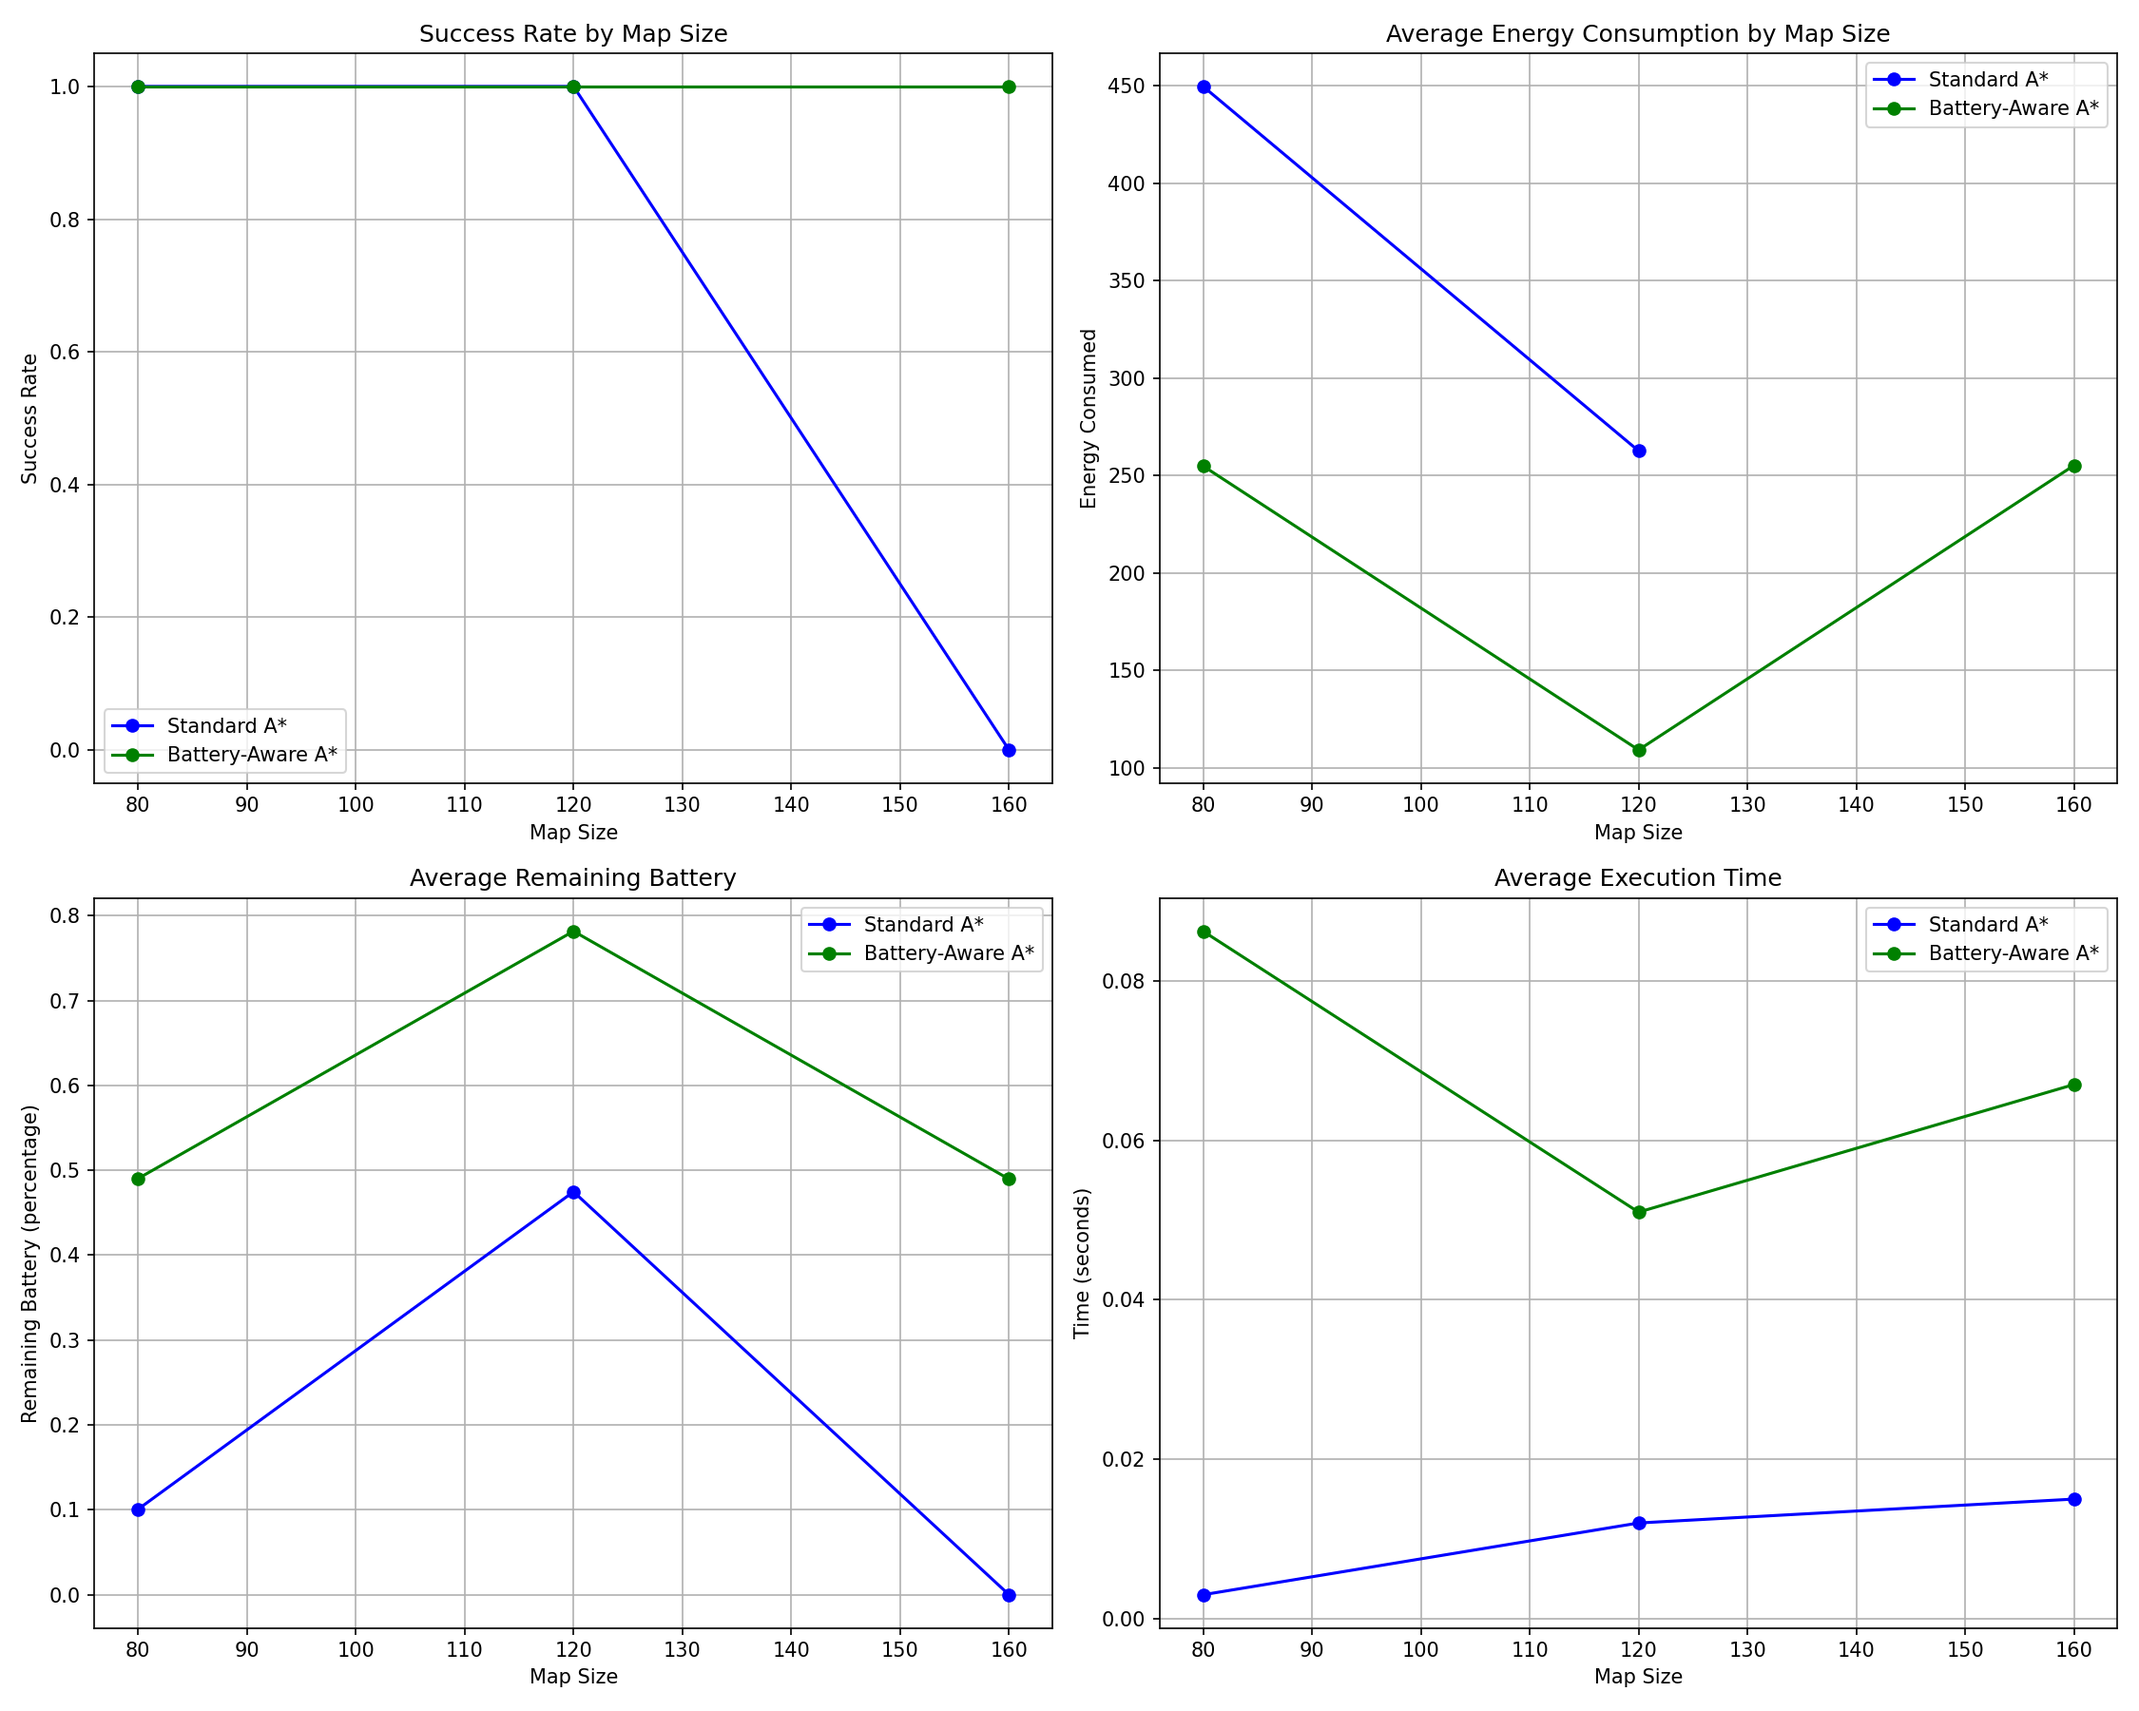
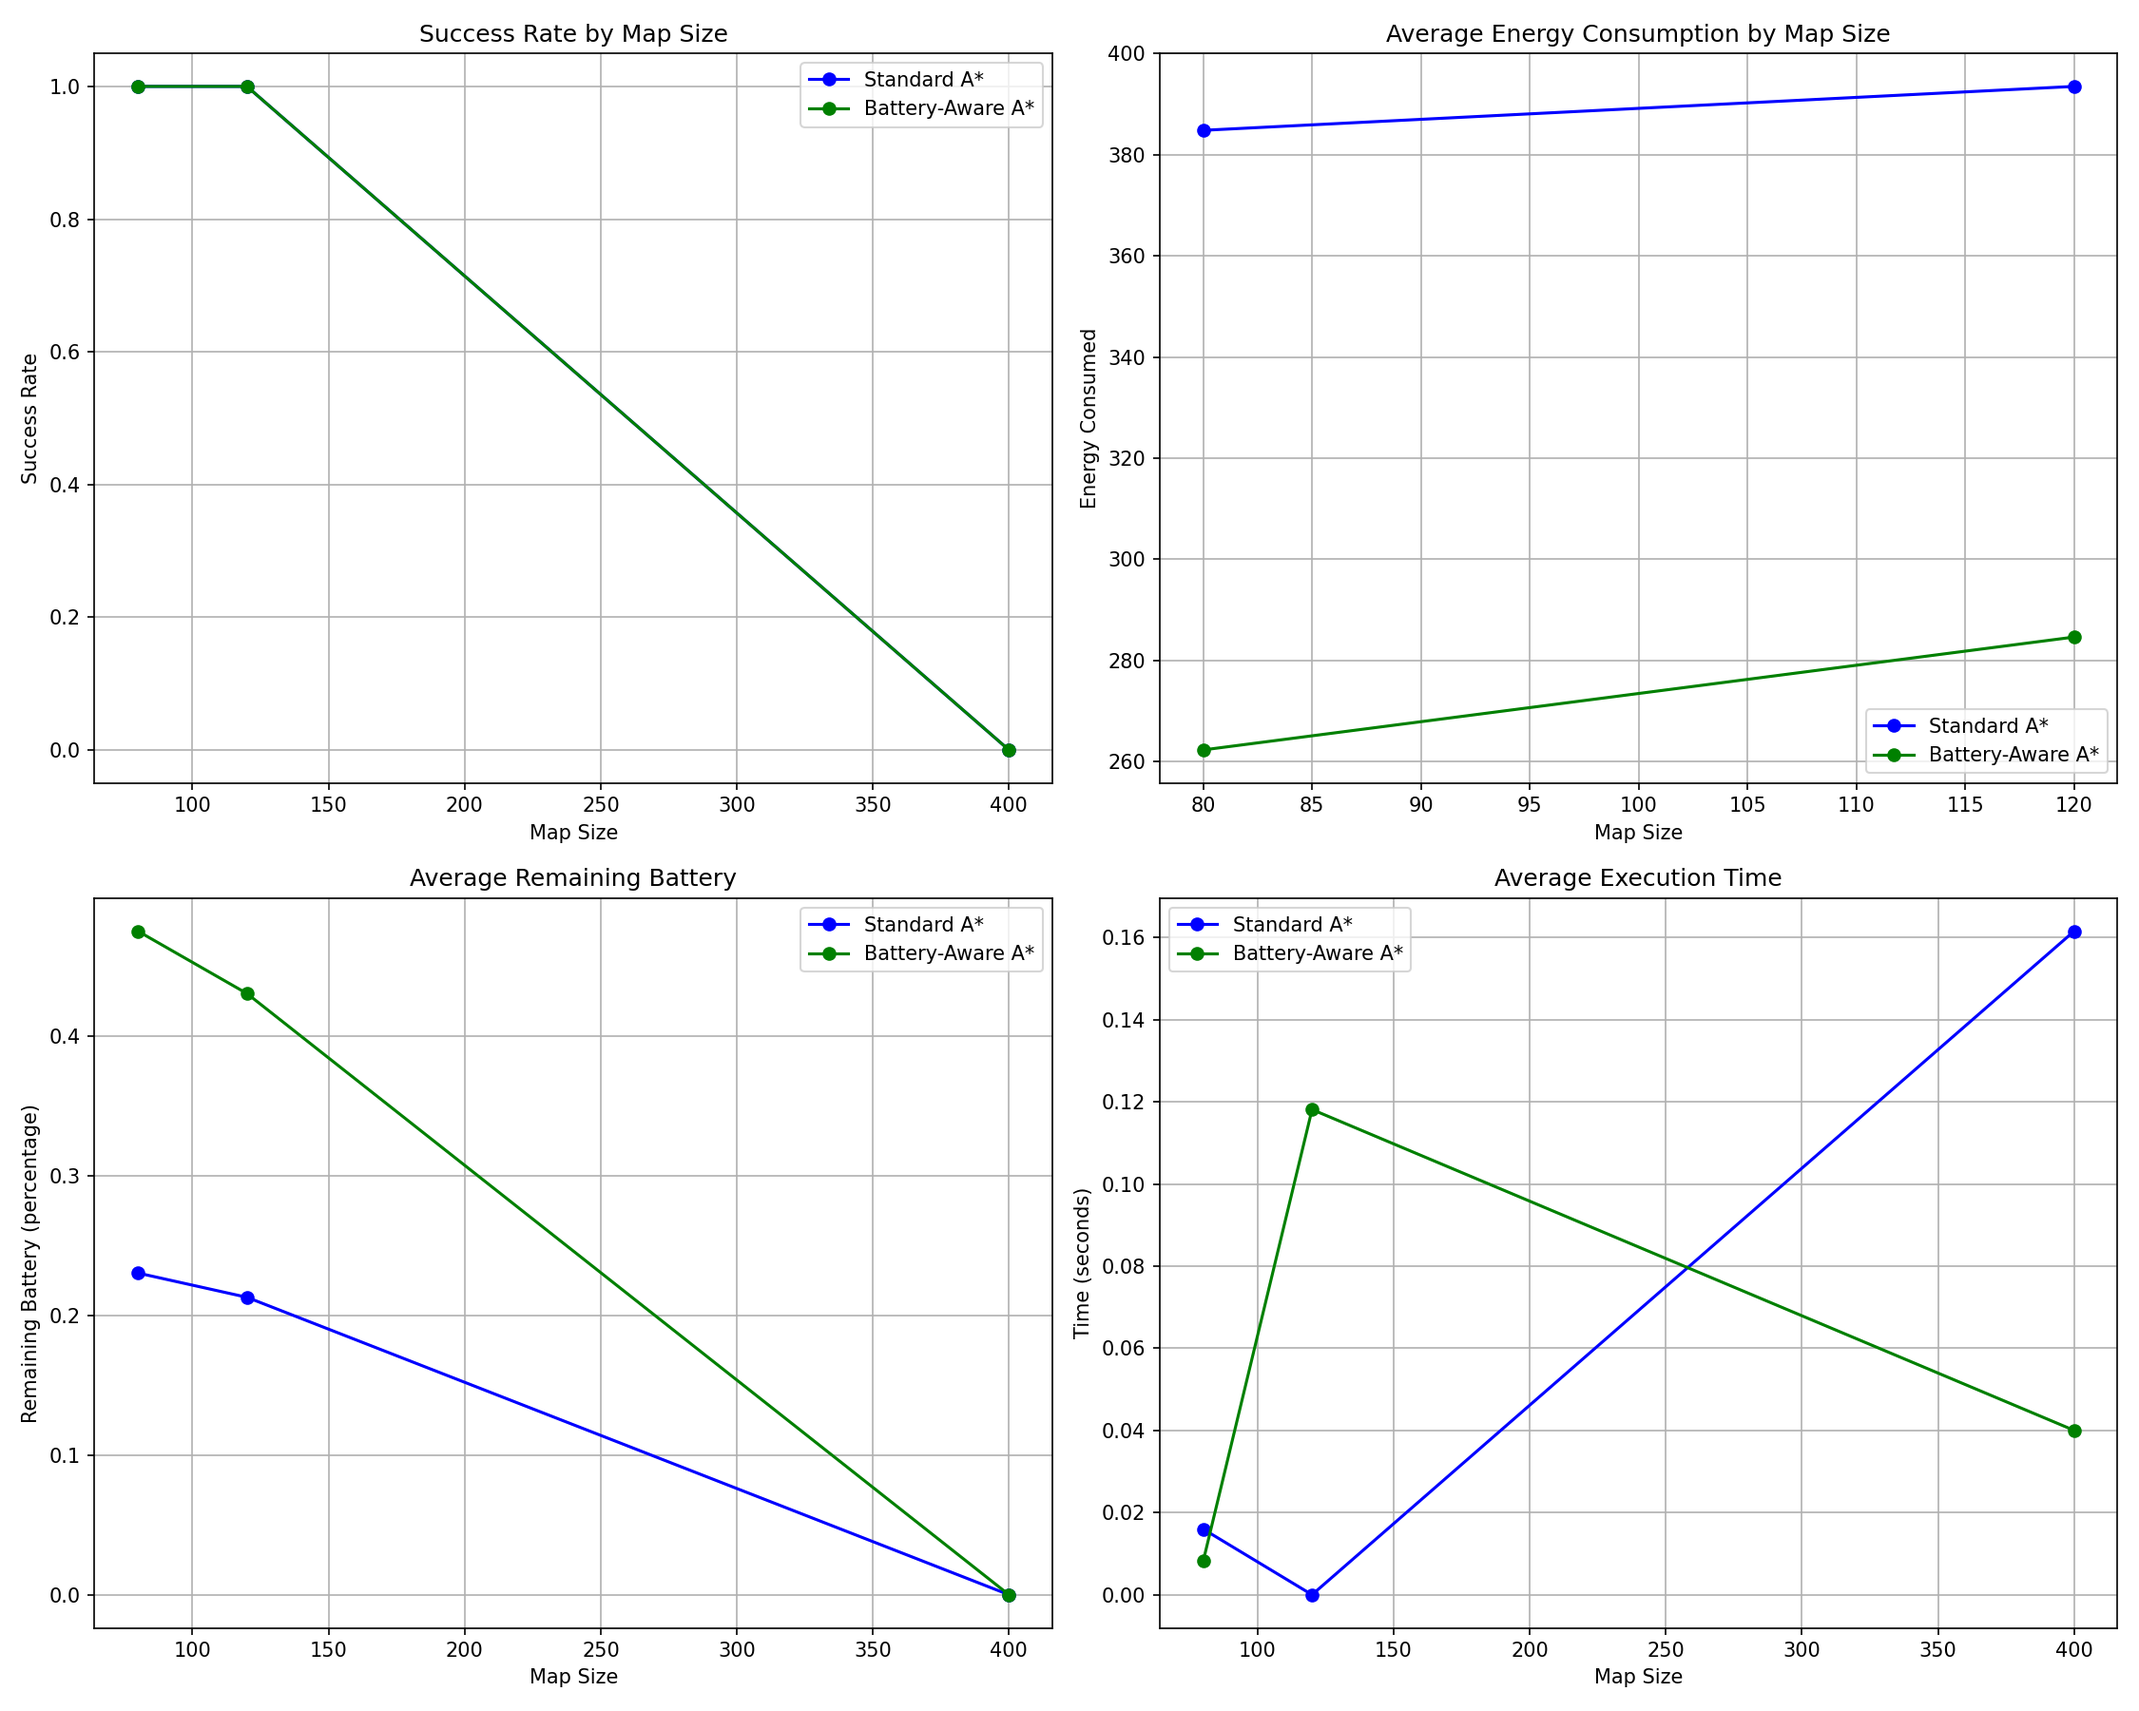
error in main.py fixed

diff --git a/main.py b/main.py
@@ -2,6 +2,9 @@ import time
 import os
 from simulation import run_simulation
 from visualization import create_performance_charts, create_summary_chart
+from map import Map
+from astar import standard_astar, battery_aware_astar
+from battery import LiFePO4Battery
 
 def test_improved_heuristic():
     """Run a simple test to verify the improved energy-based heuristic"""
@@ -151,7 +154,7 @@ def main():
     test_physics_model()
     
     # Set simulation parameters with fewer map sizes for faster execution
-    map_sizes = [80, 120, 160] 
+    map_sizes = [80, 120, 400] 
     trials_per_size = 1 
     battery_capacity = 500
     
